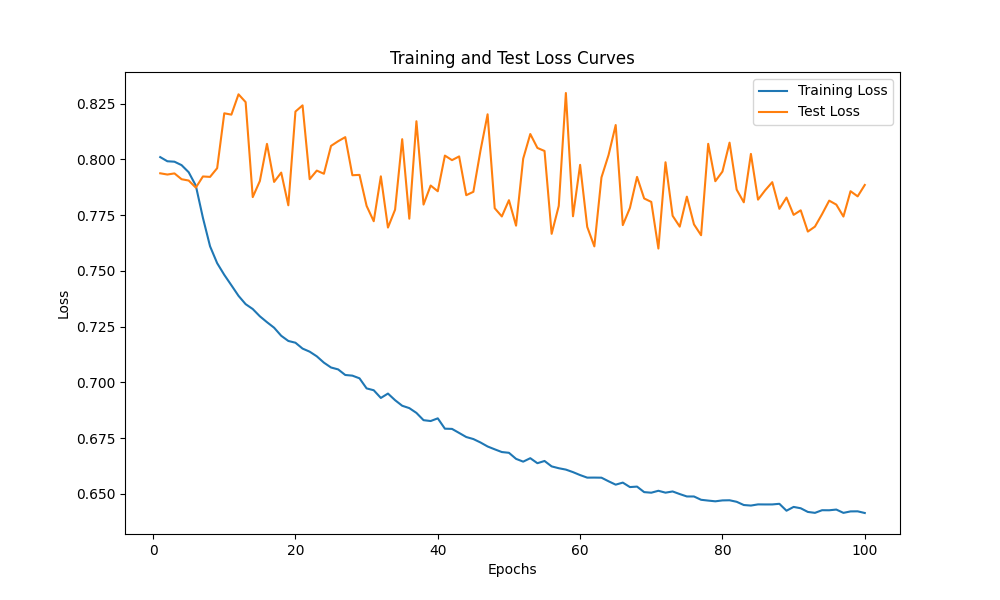
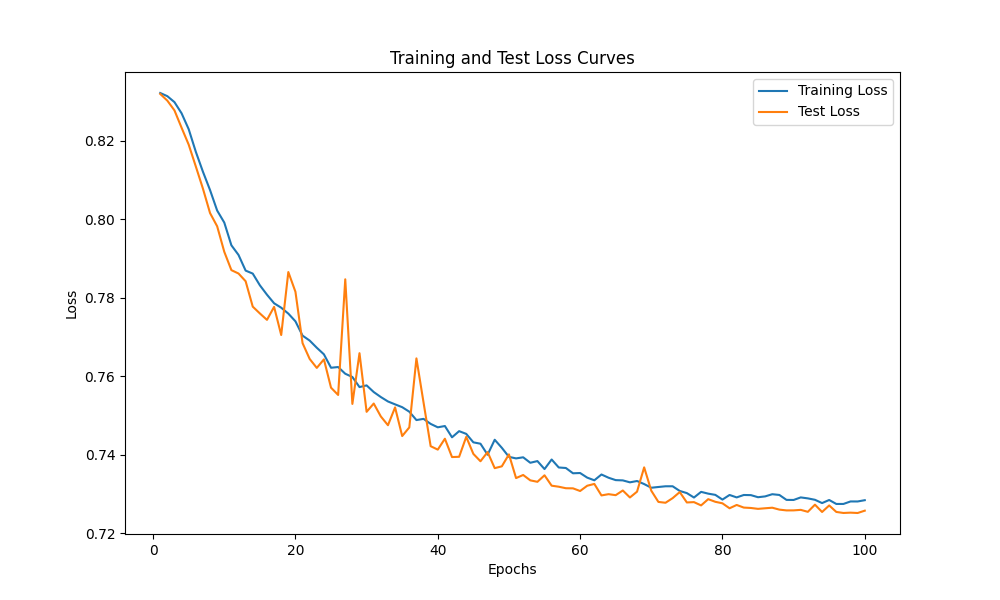
Better training session. Results recorded

diff --git a/model.py b/model.py
@@ -1,69 +1,9 @@
 import torch
 import torch.nn.functional as F
 from torch.nn import Sequential, Linear, BatchNorm1d, ReLU
-from torch_geometric.nn import TransformerConv, GATConv, TopKPooling, BatchNorm
 from torch_geometric.nn import GCNConv
 from torch_geometric.nn import global_mean_pool as gap, global_max_pool as gmp
-from torch_geometric.nn.conv.x_conv import XConv
 torch.manual_seed(42)
-
-class GATNetwork(torch.nn.Module):
-    def __init__(self, feature_size):
-        """
-        Graph Neural Network model made with Graph Attention layers and TopK pooling.
-        Consists of three blocks of GATConv and TopKPooling layers, followed by two Linear layers.
-        Output is two classes.
-        Parameters - feature_size
-
-        """
-        super(GATNetwork, self).__init__()
-        
-        # Hardcoded parameters
-        num_classes = 2
-        embedding_size = 1024
-
-        # Layers
-        self.conv1 = GATConv(feature_size, embedding_size, heads=3, dropout=0.3)
-        self.head_transform1 = Linear(embedding_size * 3, embedding_size)
-        self.pooling1 = TopKPooling(embedding_size, ratio=0.8)
-        self.conv2 = GATConv(embedding_size, embedding_size, heads=3, dropout=0.3)
-        self.head_transform2 = Linear(embedding_size * 3, embedding_size)
-        self.pooling2 = TopKPooling(embedding_size, ratio=0.5)
-        self.conv3 = GATConv(embedding_size, embedding_size, heads=3, dropout=0.3)
-        self.head_transform3= Linear(embedding_size * 3, embedding_size)
-        self.pooling3 = TopKPooling(embedding_size, ratio=0.2)
-
-        self.linear1 = Linear(embedding_size * 2, 1024)
-        self.linear2 = Linear(1024, num_classes)
-
-    def forward(self, x, edge_attr, edge_index, batch_index):
-        # First block
-        x = self.conv1(x, edge_index)
-        x = self.head_transform1(x)
-        x, edge_index, edge_attr, batch_index, _, _ = self.pooling1(x, edge_index, None, batch_index)
-        x1 = torch.cat([gmp(x, batch_index), gap(x, batch_index)], dim=1)
-
-        # Second block
-        x = self.conv2(x, edge_index)
-        x = self.head_transform2(x)
-        x, edge_index, edge_attr, batch_index, _, _= self.pooling2(x, edge_index, None, batch_index)
-        x2 = torch.cat([gmp(x, batch_index), gap(x, batch_index)], dim=1)
-
-        # Third block
-        x = self.conv3(x, edge_index)
-        x = self.head_transform3(x)
-        x, edge_index, edge_attr, batch_index, _, _= self.pooling3(x, edge_index, None, batch_index)
-        x3 = torch.cat([gmp(x, batch_index), gap(x, batch_index)], dim=1)
-
-        # Concatenate pooled features
-        x = x1 + x2 + x3
-
-        # Linear block
-        x = self.linear1(x).relu()
-        x = F.dropout(x, p=0.5, training=self.training)
-        x = self.linear2(x)
-
-        return x
 
         
 class GCNConvNetwork(torch.nn.Module):

diff --git a/README.md b/README.md
@@ -1,5 +1,5 @@
 # HIV Inhibitor Molecule Classification using GNN
-A Graph Neural Network with Graph Attention Layers paired with TopK pooling to classify and generate HIV inhibitor molecules
+A Graph Neural Network with Graph Convolution Layers to classify and generate HIV inhibitor molecules
 
 ## Overview
 
@@ -33,7 +33,7 @@ img = Draw.MolsToGridImage(molecules, molsPerRow=3)
 
 To handle class imbalance, the dataset was preprocessed before loading into a PyTorch Dataset class. Oversampling was used on the positive samples and increased them upto 10101 samples. Class imbalance will further be addressed by weighted loss during training.
 
-The processed data was then seperated into two csv files using `sklearn.model_selection.train_test_split()` with a random split of 20:80. The csv files are stored in `data/train/raw` and `data/test/raw` seperately for proper working of the `torch_geometric.data.Dataset()` class. According to documentation, the Dataset class processes the data in the raw folder and caches in `root/processed` as a .pt file. 
+The processed data was then seperated into two csv files using `sklearn.model_selection.train_test_split()` with a random split of 80:20. The csv files are stored in `data/train/raw` and `data/test/raw` seperately for proper working of the `torch_geometric.data.Dataset()` class. According to documentation, the Dataset class processes the data in the raw folder and caches in `root/processed` as a .pt file. 
 
 To set up data for training run the `preprocess.py` file. The `dataset.py` file includes the class definition for the HIVDatset() object. Each molecule is saved as a PyTorch Geometric graph data object with node features, edge attributes, edge index and label. This is automated using DeepChem library [featurizers](https://deepchem.readthedocs.io/en/latest/api_reference/featurizers.html#molgraphconvfeaturizer). `MolGraphConvFeaturizer()` was used to extract different node level features using the SMILES string of a molecule. This requires RDKit to be installed. Some examples for features are Atom type, formal charge, hybridization, degree and chirality. The returned feature size is 30.
 
@@ -51,16 +51,27 @@ data = out[0].to_pyg_graph()
 ```
 
 ## Model
-The model consists of 3 blocks of `conv.GATConv` Graph Attention Layers followed by two dense layers. 3 attention heads aer used in each block. TopK pooling (`pool.TopKPooling`) is used as pooling. The output from each block is concatenated and passed into the linear layers. This outputs a 2-vector. The implementation is found in the `model.py` file. The model takes feature size as input.
+I used a simple Graph Convolutional Network (GCN) model (Kipf et al. 2017) as documented in PyG official tutorials. My model includes 3 layers of `torch_geometric.nn.GCNConv` to generate node embeddings followed by two linear layers. I used a hidden size of 512 inside each convolutional layers. The linear layer block reduces this 512 channel embedding to 64 then to 2. This outputs a 2-vector. The implementation is found in the `model.py` file. The model takes feature size (Usually 30) as input.
 
 ## Model Training
-The training process is set up by first instantiating the train and test datset objects and dataloaders with `BATCH_SIZE = 128`. The model is initialized by passing `FEATURE_SIZE = 30` and send to the training device. The model has 17954818 trainable parameters. The following optimizer and loss combination is used for training. Class weights are used to handle class imbalance.
+The training process is set up by first instantiating the train and test datset objects and dataloaders with `BATCH_SIZE = 128`. The model is initialized by passing `FEATURE_SIZE = 30` and send to the training device. The model has 574146 trainable parameters. The following optimizer and loss combination is used for training. Class weights are used to handle class imbalance. I calculated the class weights according to the class ratio in the preprocessed dataset. I found that if the dataset is balanced after oversampling weighted loss was producing worse results, therefore it can be turned off using the boolean `USE_WEIGHTED_LOSS`.
 
 ```python 
-# Loss function and optimizer
-weights = torch.tensor([1, 8], dtype=torch.float32).to(device)
-loss_fn = torch.nn.CrossEntropyLoss(weight=weights)
+# Weight calculation
+# For negative class = 49785 / (39684 x 2) = 0.63
+# For positive class = 49785 / (10101 x 2) = 2.46
+
+# Loss function
+if USE_WEIGHTED_LOSS:
+    weights = torch.tensor([0.63, 2.46], dtype=torch.float32).to(device) # Class weights to handle class imbalance
+    loss_fn = torch.nn.CrossEntropyLoss(weight=weights)
+else:
+    loss_fn = torch.nn.CrossEntropyLoss()
+
+# Optimizer
 optimizer = torch.optim.SGD(model.parameters(), lr=0.01, momentum=0.9)
+
+# Learning rate decay
 scheduler = torch.optim.lr_scheduler.ExponentialLR(optimizer, gamma=0.95)
 ```
 
@@ -68,9 +79,14 @@ The `train_step()` and `test_step()` functions include the code for generating p
 
 
 During training using Google Colab, `EPOCHS = 100` was used. 
-> As of the current training iteration (2024 July 13) the model overfits the data and gives the following loss curves.
+> As of the current training iteration (2024 July 14) the model obtains a train accuracy of 79%, test accuracy of 81% and gives the following loss curves.
 
 ![loss](images/loss_curve.png)
+
+> **Improvements Due:**
+>
+> Next I will find the reason for the spikes in the test loss, and find ways to improve the F1 score which is 0.57.
+> PyG graph classification tutorial recommends on using `torch_geometric.nn.GraphConv` (which includes neighborhood normalization), instead of `torch_geometric.nn.GCNConv`. A new model using these layers will be tried next.
 
 ## Technologies used
 - PyTorch Geometric
@@ -81,3 +97,4 @@ During training using Google Colab, `EPOCHS = 100` was used.
 ## References
 - [PyTorch Geometric Graph Datasets](https://pytorch-geometric.readthedocs.io/en/latest/tutorial/create_dataset.html)
 - [DeepChem Featurizers](https://deepchem.readthedocs.io/en/latest/api_reference/featurizers.html)
+- [PyTorch Geometric Graph Classification Tutorial](https://colab.research.google.com/drive/1I8a0DfQ3fI7Njc62__mVXUlcAleUclnb?usp=sharing)
